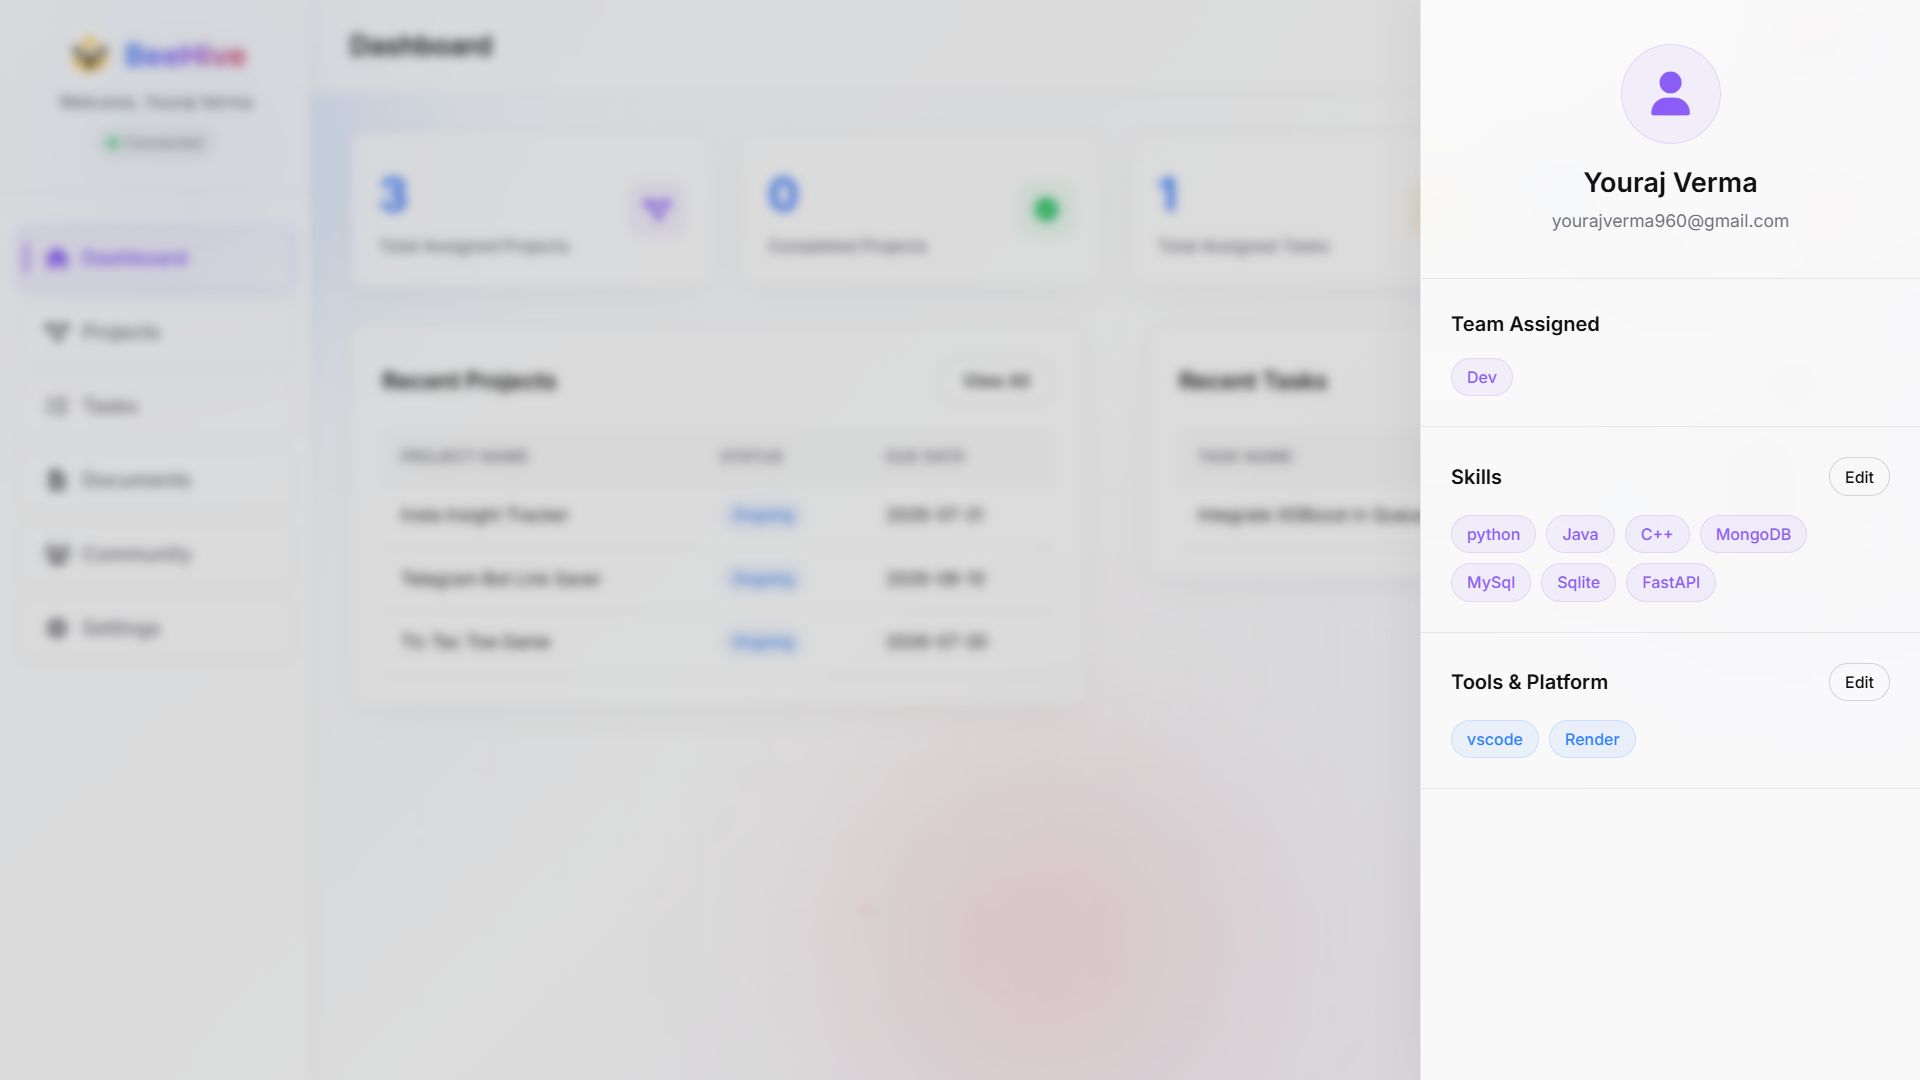
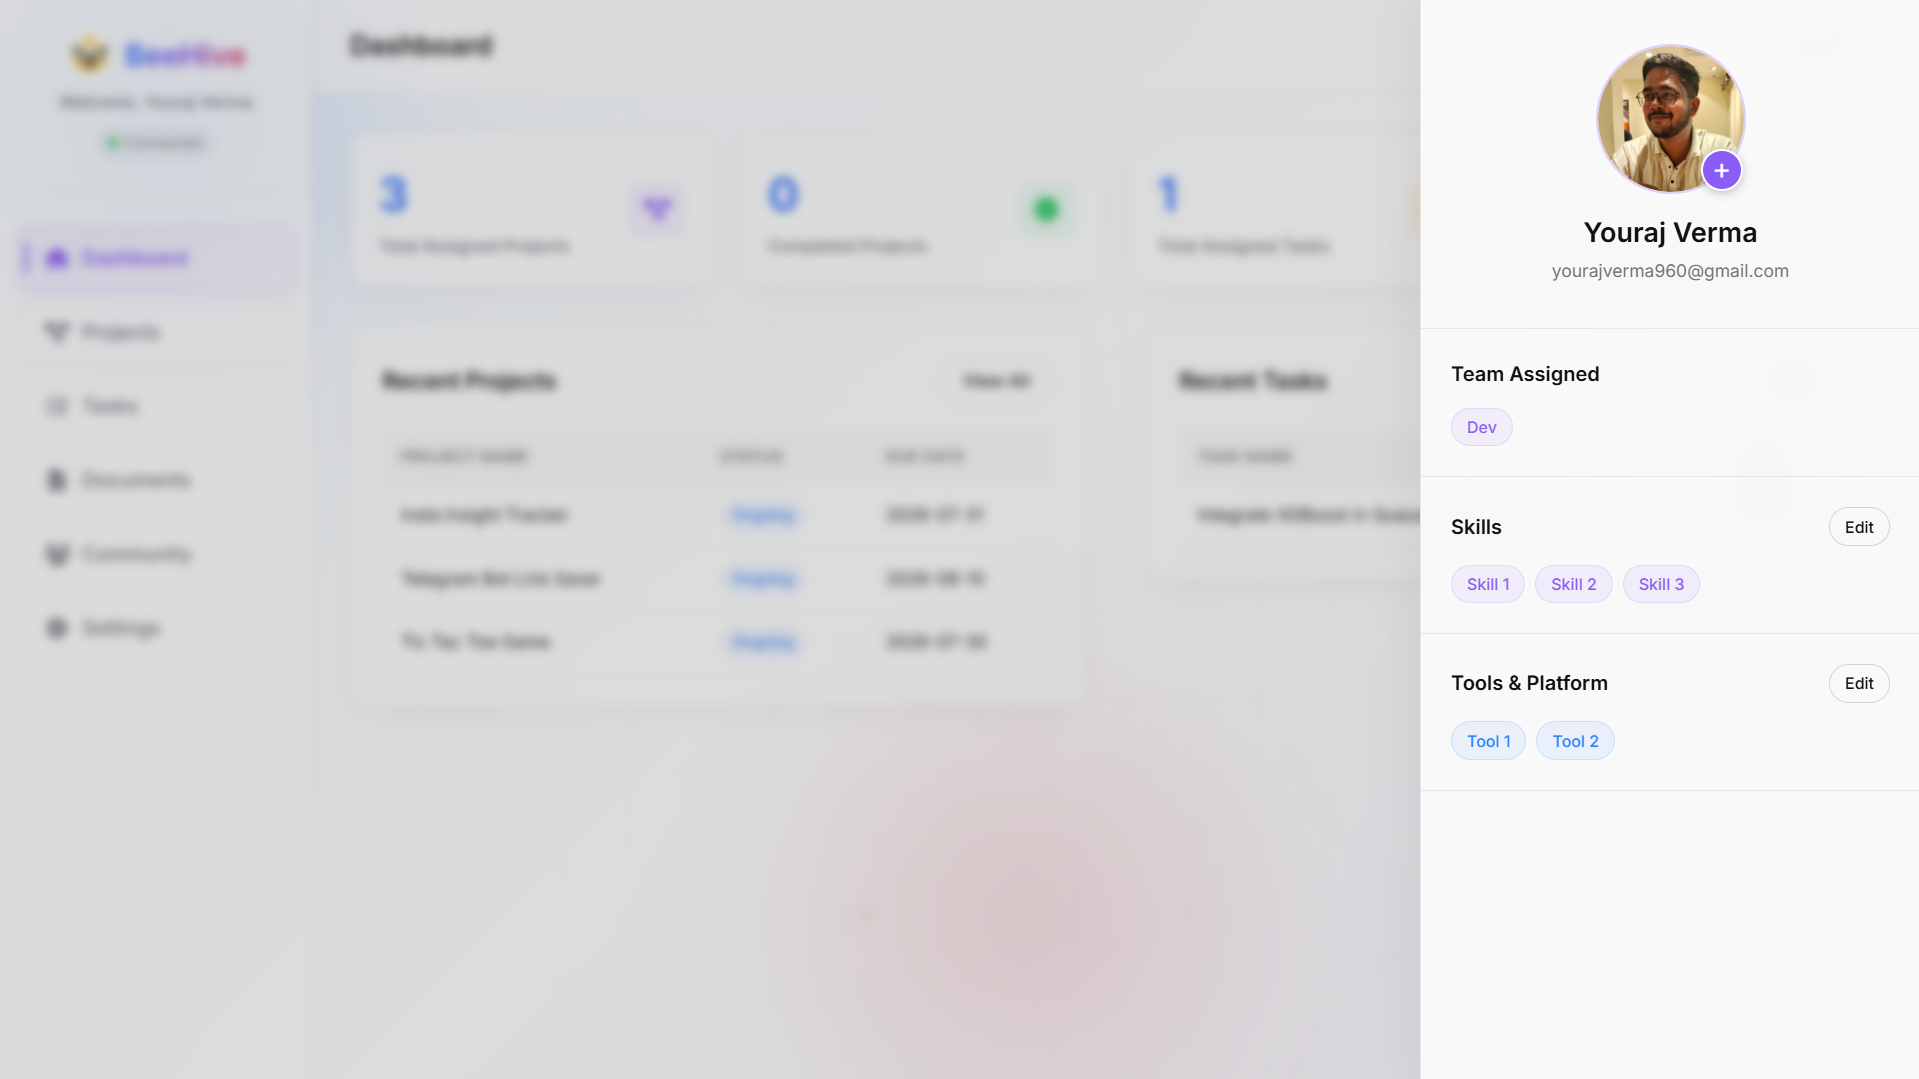
updated the landing page as per the latest commits

diff --git a/landing page/src/components/documentation/DocumentationContent.tsx b/landing page/src/components/documentation/DocumentationContent.tsx
@@ -309,6 +309,15 @@ export function DocumentationContent() {
             className="w-full object-cover"
           />
         </div>
+        <SectionHeading id="admin-settings" level={2}>Settings</SectionHeading>
+        <p className="text-slate-500 mb-6">The Settings section provides administrators with centralized control over platform credentials and email notification preferences. You can configure and update credentials for Admin Panel Access and API Documentation Access, as well as toggle Sendgrid configurations for email verification (OTPs), sign-up request approval notifications, project notifications, and task notifications.</p>
+        <div className="my-6 overflow-hidden rounded-xl border border-slate-200 shadow-sm dark:border-slate-800">
+          <img
+            src="/features/adminsettings.png"
+            alt="Admin Settings"
+            className="w-full object-cover"
+          />
+        </div>
         <SectionHeading id="admin-community" level={2}>Community</SectionHeading>
         <p className="text-slate-500 mb-6">The Community section is designed to foster collaboration and engagement among team members. Members can share updates, reply to messages, and react with emojis to encourage meaningful discussions. To maintain a healthy and organized environment, administrators have the authority to delete messages for everyone whenever necessary.</p>
         <div className="my-6 overflow-hidden rounded-xl border border-slate-200 shadow-sm dark:border-slate-800">
@@ -479,14 +488,6 @@ MONGO_URI="mongodb+srv://<username>:<password>@<cluster-name>.<cluster-id>.mongo
 # Email Service (SendGrid)
 SENDGRID_API_KEY="SG.your_sendgrid_api_key_here"
 EMAIL="notifications@yourdomain.com"
-
-# Documentation Access Credentials
-DOC_USERNAME="doc_admin"
-DOC_PASSWORD="your_secure_doc_password"
-
-# Workspace Admin Credentials
-ADMIN_USERNAME="admin"
-ADMIN_PASSWORD="your_secure_admin_password"
 
 # Cloud Storage (Cloudinary)
 CLOUD_NAME="your_cloudinary_cloud_name"

diff --git a/app/templates/clients/login.html b/app/templates/clients/login.html
@@ -4,7 +4,7 @@
 <head>
     <meta charset="UTF-8">
     <meta name="viewport" content="width=device-width, initial-scale=1.0">
-    <title>Login | Trendy Portal</title>
+    <title>Login | BeeHive</title>
     <link rel="icon" type="image/x-icon" href="{{ url_for('static', path='favicon.ico') }}">
     <script src="https://static.readdy.ai/static/e.js"></script>
     <script src="https://cdn.tailwindcss.com/3.4.16"></script>
@@ -507,7 +507,8 @@
     </div>
 
     <!-- Left Side (Image) -->
-    <div class="hidden md:flex md:w-1/2 md:fixed md:h-screen md:left-0 md:top-0 items-center justify-center p-8 lg:p-12 z-10 pointer-events-none">
+    <div
+        class="hidden md:flex md:w-1/2 md:fixed md:h-screen md:left-0 md:top-0 items-center justify-center p-8 lg:p-12 z-10 pointer-events-none">
         <img src="/static/loginbg.png" alt="Login Background"
             class="max-w-full max-h-[82vh] object-contain select-none" />
     </div>

diff --git a/landing page/src/components/setup/Setup.tsx b/landing page/src/components/setup/Setup.tsx
@@ -568,12 +568,6 @@ CLOUDINARY_SECRET_KEY=abcdefghijklmnopqrstuvwxyz123456`}
 SENDGRID_API_KEY = "your_sendgrid_key"
 EMAIL = "your_verified_sender_email@domain.com"
 
-DOC_USERNAME = "docs_user"
-DOC_PASSWORD = "docs_password"
-
-ADMIN_USERNAME = "admin"
-ADMIN_PASSWORD = "admin_secure_password"
-
 CLOUD_NAME = "your_cloud_name"
 CLOUDINARY_API_KEY = "your_cloudinary_key"
 CLOUDINARY_SECRET_KEY = "your_cloudinary_secret"

diff --git a/landing page/src/components/documentation/config.ts b/landing page/src/components/documentation/config.ts
@@ -41,6 +41,7 @@ export const docsConfig = {
         { title: "Projects", href: "#admin-projects" },
         { title: "Tasks", href: "#admin-tasks" },
         { title: "Notification", href: "#admin-notification" },
+        { title: "Settings", href: "#admin-settings" },
         { title: "Community", href: "#admin-community" },
       ],
     },
